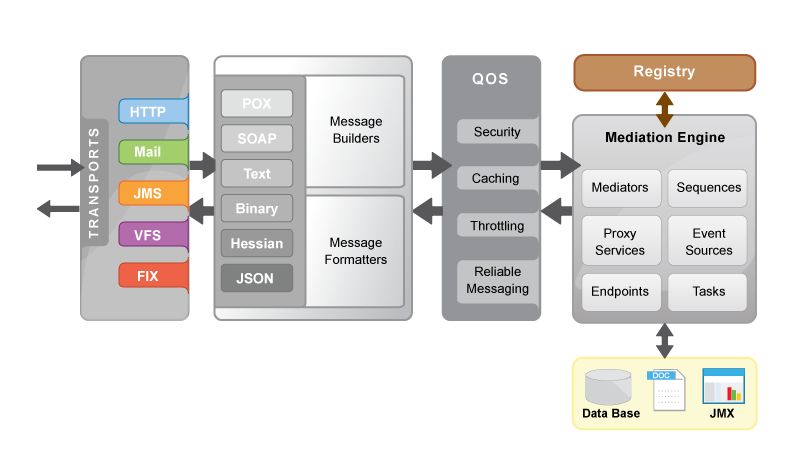
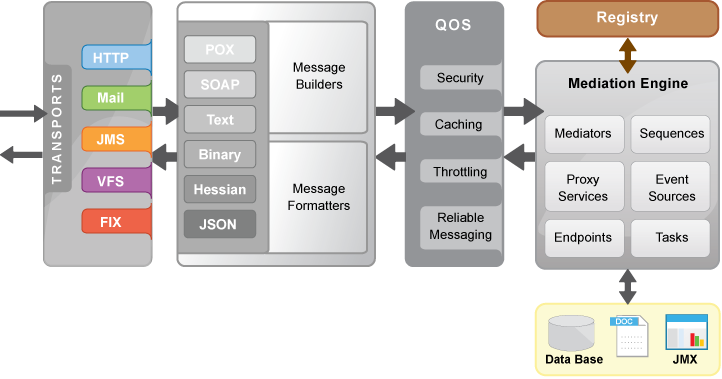
Changes to home page: 1. Added a new features section 2. Moved the key features section further up and updated the content (most visitors will be interested in the features we support - so need to give prominence to this section) 3. Cropped the image so it fits nicely into the content 4. Minor chang
git-svn-id: https://svn.apache.org/repos/asf/synapse/branches/2.0@1038877 13f79535-47bb-0310-9956-ffa450edef68

diff --git a/src/site/resources/css/site.css b/src/site/resources/css/site.css
@@ -39,8 +39,8 @@ h4{
     color:#777777;
 }
 p{
-    padding-top:5px;
-    padding-bottom:5px;
+    padding-top:1.5px;
+    padding-bottom:1.5px;
     line-height:18px;
 }
 /* page styles */
